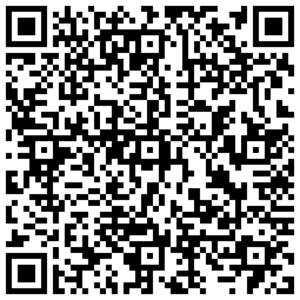
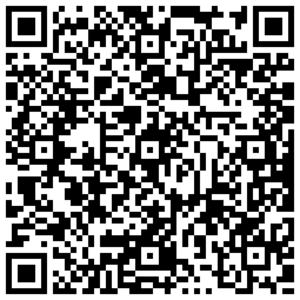
Update free configs - 2025-03-29

diff --git a/README.md b/README.md
@@ -1,6 +1,6 @@
 # 文档下方有很多可直接导入使用的高速节点/二维码订阅
 
-<p align='center'><strong>2025-03-28 12点准时更新每日免费节点，更多机场VPN优惠信息：<a href="https://vpn.tg10000.com">vpn.tg10000.com</a></strong></p>
+<p align='center'><strong>2025-03-29 12点准时更新每日免费节点，更多机场VPN优惠信息：<a href="https://vpn.tg10000.com">vpn.tg10000.com</a></strong></p>
 <p align='center'><strong>Telegram群:<a href="https://t.me/freevpn">@freevpntg</a></strong></p>
 
 
@@ -60,120 +60,120 @@
 
 <p align='center'><img src='img/1.png' alt='QR Code' width='300'></p>
 
-<p align='center'><code>ss://Y2hhY2hhMjAtaWV0Zi1wb2x5MTMwNTozMGQ0NWRkNi03NmQ1LTQ0YjQtOTM1ZS1iNjM3YmFlZDU3M2M=@free.2apzhfa.xyz:31141#0%7C%F0%9F%87%AD%F0%9F%87%B0%E9%A6%99%E6%B8%AF%2001%20%7C%201x%20HK</code></p>
+<p align='center'><code>ss://Y2hhY2hhMjAtaWV0Zi1wb2x5MTMwNTpiMDE1NmJmNy1jYWEyLTQ3NzgtYjQxNi05ZmM4MmZiODUzMDk=@free.2weradf.xyz:36141#0%7C%F0%9F%87%AD%F0%9F%87%B0%20%E9%A6%99%E6%B8%AF%2001%20%7C%201x%20HK</code></p>
 
 <p align='center'><img src='img/2.png' alt='QR Code' width='300'></p>
 
-<p align='center'><code>ss://Y2hhY2hhMjAtaWV0Zi1wb2x5MTMwNTozMGQ0NWRkNi03NmQ1LTQ0YjQtOTM1ZS1iNjM3YmFlZDU3M2M=@free.2apzhfa.xyz:31143#0%7C%F0%9F%87%AD%F0%9F%87%B0%E9%A6%99%E6%B8%AF%2002%20%7C%201x%20HK</code></p>
+<p align='center'><code>ss://Y2hhY2hhMjAtaWV0Zi1wb2x5MTMwNTpiMDE1NmJmNy1jYWEyLTQ3NzgtYjQxNi05ZmM4MmZiODUzMDk=@free.2weradf.xyz:36143#0%7C%F0%9F%87%AD%F0%9F%87%B0%20%E9%A6%99%E6%B8%AF%2002%20%7C%201x%20HK</code></p>
 
 <p align='center'><img src='img/3.png' alt='QR Code' width='300'></p>
 
-<p align='center'><code>ss://Y2hhY2hhMjAtaWV0Zi1wb2x5MTMwNTozMGQ0NWRkNi03NmQ1LTQ0YjQtOTM1ZS1iNjM3YmFlZDU3M2M=@free.2apzhfa.xyz:31145#0%7C%F0%9F%87%AD%F0%9F%87%B0%E9%A6%99%E6%B8%AF%E5%AE%B6%E5%AE%BD%2003%20%7C%201x%20HK</code></p>
+<p align='center'><code>ss://Y2hhY2hhMjAtaWV0Zi1wb2x5MTMwNTpiMDE1NmJmNy1jYWEyLTQ3NzgtYjQxNi05ZmM4MmZiODUzMDk=@free.2weradf.xyz:36145#0%7C%F0%9F%87%AD%F0%9F%87%B0%20%E9%A6%99%E6%B8%AF%E4%BD%8F%E5%AE%85IP%2003%20%7C%201x%20HK</code></p>
 
 <p align='center'><img src='img/4.png' alt='QR Code' width='300'></p>
 
-<p align='center'><code>ss://Y2hhY2hhMjAtaWV0Zi1wb2x5MTMwNTozMGQ0NWRkNi03NmQ1LTQ0YjQtOTM1ZS1iNjM3YmFlZDU3M2M=@free.2apzhfa.xyz:31241#0%7C%F0%9F%87%B9%F0%9F%87%BC%E5%8F%B0%E6%B9%BE%2001%20%7C%201x%20TW</code></p>
+<p align='center'><code>ss://Y2hhY2hhMjAtaWV0Zi1wb2x5MTMwNTpiMDE1NmJmNy1jYWEyLTQ3NzgtYjQxNi05ZmM4MmZiODUzMDk=@free.2weradf.xyz:36241#0%7C%F0%9F%87%B9%F0%9F%87%BC%20%E5%8F%B0%E6%B9%BE%2001%20%7C%201x%20TW</code></p>
 
 <p align='center'><img src='img/5.png' alt='QR Code' width='300'></p>
 
-<p align='center'><code>ss://Y2hhY2hhMjAtaWV0Zi1wb2x5MTMwNTozMGQ0NWRkNi03NmQ1LTQ0YjQtOTM1ZS1iNjM3YmFlZDU3M2M=@free.2apzhfa.xyz:31243#0%7C%F0%9F%87%B9%F0%9F%87%BC%E5%8F%B0%E6%B9%BE%2002%20%7C%201x%20TW</code></p>
+<p align='center'><code>ss://Y2hhY2hhMjAtaWV0Zi1wb2x5MTMwNTpiMDE1NmJmNy1jYWEyLTQ3NzgtYjQxNi05ZmM4MmZiODUzMDk=@free.2weradf.xyz:36243#0%7C%F0%9F%87%B9%F0%9F%87%BC%20%E5%8F%B0%E6%B9%BE%2002%20%7C%201x%20TW</code></p>
 
 <p align='center'><img src='img/6.png' alt='QR Code' width='300'></p>
 
-<p align='center'><code>ss://Y2hhY2hhMjAtaWV0Zi1wb2x5MTMwNTozMGQ0NWRkNi03NmQ1LTQ0YjQtOTM1ZS1iNjM3YmFlZDU3M2M=@free.2apzhfa.xyz:31245#0%7C%F0%9F%87%B9%F0%9F%87%BC%E5%8F%B0%E6%B9%BE%2003%20%7C%201x%20TW</code></p>
+<p align='center'><code>ss://Y2hhY2hhMjAtaWV0Zi1wb2x5MTMwNTpiMDE1NmJmNy1jYWEyLTQ3NzgtYjQxNi05ZmM4MmZiODUzMDk=@free.2weradf.xyz:36245#0%7C%F0%9F%87%B9%F0%9F%87%BC%20%E5%8F%B0%E6%B9%BE%2003%20%7C%201x%20TW</code></p>
 
 <p align='center'><img src='img/7.png' alt='QR Code' width='300'></p>
 
-<p align='center'><code>ss://Y2hhY2hhMjAtaWV0Zi1wb2x5MTMwNTozMGQ0NWRkNi03NmQ1LTQ0YjQtOTM1ZS1iNjM3YmFlZDU3M2M=@free.2apzhfa.xyz:31111#0%7C%F0%9F%87%AF%F0%9F%87%B5%E6%97%A5%E6%9C%AC%2001%20%7C%201x%20JP</code></p>
+<p align='center'><code>ss://Y2hhY2hhMjAtaWV0Zi1wb2x5MTMwNTpiMDE1NmJmNy1jYWEyLTQ3NzgtYjQxNi05ZmM4MmZiODUzMDk=@free.2weradf.xyz:36111#0%7C%F0%9F%87%AF%F0%9F%87%B5%20%E6%97%A5%E6%9C%AC%2001%20%7C%201x%20JP</code></p>
 
 <p align='center'><img src='img/8.png' alt='QR Code' width='300'></p>
 
-<p align='center'><code>ss://Y2hhY2hhMjAtaWV0Zi1wb2x5MTMwNTozMGQ0NWRkNi03NmQ1LTQ0YjQtOTM1ZS1iNjM3YmFlZDU3M2M=@free.2apzhfa.xyz:31113#0%7C%F0%9F%87%AF%F0%9F%87%B5%E6%97%A5%E6%9C%AC%2002%20%7C%201x%20JP</code></p>
+<p align='center'><code>ss://Y2hhY2hhMjAtaWV0Zi1wb2x5MTMwNTpiMDE1NmJmNy1jYWEyLTQ3NzgtYjQxNi05ZmM4MmZiODUzMDk=@free.2weradf.xyz:36113#0%7C%F0%9F%87%AF%F0%9F%87%B5%20%E6%97%A5%E6%9C%AC%2002%20%7C%201x%20JP</code></p>
 
 <p align='center'><img src='img/9.png' alt='QR Code' width='300'></p>
 
-<p align='center'><code>ss://Y2hhY2hhMjAtaWV0Zi1wb2x5MTMwNTozMGQ0NWRkNi03NmQ1LTQ0YjQtOTM1ZS1iNjM3YmFlZDU3M2M=@free.2apzhfa.xyz:31115#0%7C%F0%9F%87%AF%F0%9F%87%B5%E6%97%A5%E6%9C%AC%2003%20%7C%201x%20JP</code></p>
+<p align='center'><code>ss://Y2hhY2hhMjAtaWV0Zi1wb2x5MTMwNTpiMDE1NmJmNy1jYWEyLTQ3NzgtYjQxNi05ZmM4MmZiODUzMDk=@free.2weradf.xyz:36115#0%7C%F0%9F%87%AF%F0%9F%87%B5%20%E6%97%A5%E6%9C%AC%2003%20%7C%201x%20JP</code></p>
 
 <p align='center'><img src='img/10.png' alt='QR Code' width='300'></p>
 
-<p align='center'><code>ss://Y2hhY2hhMjAtaWV0Zi1wb2x5MTMwNTozMGQ0NWRkNi03NmQ1LTQ0YjQtOTM1ZS1iNjM3YmFlZDU3M2M=@free.2apzhfa.xyz:31171#0%7C%F0%9F%87%B8%F0%9F%87%AC%E6%96%B0%E5%8A%A0%E5%9D%A1%2001%20%7C%201x%20SG</code></p>
+<p align='center'><code>ss://Y2hhY2hhMjAtaWV0Zi1wb2x5MTMwNTpiMDE1NmJmNy1jYWEyLTQ3NzgtYjQxNi05ZmM4MmZiODUzMDk=@free.2weradf.xyz:36171#0%7C%F0%9F%87%B8%F0%9F%87%AC%20%E6%96%B0%E5%8A%A0%E5%9D%A1%2001%20%7C%201x%20SG</code></p>
 
 <p align='center'><img src='img/11.png' alt='QR Code' width='300'></p>
 
-<p align='center'><code>ss://Y2hhY2hhMjAtaWV0Zi1wb2x5MTMwNTozMGQ0NWRkNi03NmQ1LTQ0YjQtOTM1ZS1iNjM3YmFlZDU3M2M=@free.2apzhfa.xyz:31173#0%7C%F0%9F%87%B8%F0%9F%87%AC%E6%96%B0%E5%8A%A0%E5%9D%A1%2002%20%7C%201x%20SG</code></p>
+<p align='center'><code>ss://Y2hhY2hhMjAtaWV0Zi1wb2x5MTMwNTpiMDE1NmJmNy1jYWEyLTQ3NzgtYjQxNi05ZmM4MmZiODUzMDk=@free.2weradf.xyz:36173#0%7C%F0%9F%87%B8%F0%9F%87%AC%20%E6%96%B0%E5%8A%A0%E5%9D%A1%2002%20%7C%201x%20SG</code></p>
 
 <p align='center'><img src='img/12.png' alt='QR Code' width='300'></p>
 
-<p align='center'><code>ss://Y2hhY2hhMjAtaWV0Zi1wb2x5MTMwNTozMGQ0NWRkNi03NmQ1LTQ0YjQtOTM1ZS1iNjM3YmFlZDU3M2M=@free.2apzhfa.xyz:31175#0%7C%F0%9F%87%B8%F0%9F%87%AC%E6%96%B0%E5%8A%A0%E5%9D%A1%2003%20%7C%201x%20SG</code></p>
+<p align='center'><code>ss://Y2hhY2hhMjAtaWV0Zi1wb2x5MTMwNTpiMDE1NmJmNy1jYWEyLTQ3NzgtYjQxNi05ZmM4MmZiODUzMDk=@free.2weradf.xyz:36175#0%7C%F0%9F%87%B8%F0%9F%87%AC%20%E6%96%B0%E5%8A%A0%E5%9D%A1%2003%20%7C%201x%20SG</code></p>
 
 <p align='center'><img src='img/13.png' alt='QR Code' width='300'></p>
 
-<p align='center'><code>ss://Y2hhY2hhMjAtaWV0Zi1wb2x5MTMwNTozMGQ0NWRkNi03NmQ1LTQ0YjQtOTM1ZS1iNjM3YmFlZDU3M2M=@free.2apzhfa.xyz:31311#0%7C%F0%9F%87%B0%F0%9F%87%B7%E9%9F%A9%E5%9B%BD%2001%20%7C%201x%20KR</code></p>
+<p align='center'><code>ss://Y2hhY2hhMjAtaWV0Zi1wb2x5MTMwNTpiMDE1NmJmNy1jYWEyLTQ3NzgtYjQxNi05ZmM4MmZiODUzMDk=@free.2weradf.xyz:36311#0%7C%F0%9F%87%B0%F0%9F%87%B7%20%E9%9F%A9%E5%9B%BD%2001%20%7C%201x%20KR</code></p>
 
 <p align='center'><img src='img/14.png' alt='QR Code' width='300'></p>
 
-<p align='center'><code>ss://Y2hhY2hhMjAtaWV0Zi1wb2x5MTMwNTozMGQ0NWRkNi03NmQ1LTQ0YjQtOTM1ZS1iNjM3YmFlZDU3M2M=@free.2apzhfa.xyz:31313#0%7C%F0%9F%87%B0%F0%9F%87%B7%E9%9F%A9%E5%9B%BD%2002%20%7C%201x%20KR</code></p>
+<p align='center'><code>ss://Y2hhY2hhMjAtaWV0Zi1wb2x5MTMwNTpiMDE1NmJmNy1jYWEyLTQ3NzgtYjQxNi05ZmM4MmZiODUzMDk=@free.2weradf.xyz:36313#0%7C%F0%9F%87%B0%F0%9F%87%B7%20%E9%9F%A9%E5%9B%BD%2002%20%7C%201x%20KR</code></p>
 
 <p align='center'><img src='img/15.png' alt='QR Code' width='300'></p>
 
-<p align='center'><code>ss://Y2hhY2hhMjAtaWV0Zi1wb2x5MTMwNTozMGQ0NWRkNi03NmQ1LTQ0YjQtOTM1ZS1iNjM3YmFlZDU3M2M=@free.2apzhfa.xyz:31341#0%7C%F0%9F%87%B5%F0%9F%87%AD%E8%8F%B2%E5%BE%8B%E5%AE%BE%2001%20%7C%201x%20PH</code></p>
+<p align='center'><code>ss://Y2hhY2hhMjAtaWV0Zi1wb2x5MTMwNTpiMDE1NmJmNy1jYWEyLTQ3NzgtYjQxNi05ZmM4MmZiODUzMDk=@free.2weradf.xyz:36341#0%7C%F0%9F%87%B5%F0%9F%87%AD%20%E8%8F%B2%E5%BE%8B%E5%AE%BE%2001%20%7C%201x%20PH</code></p>
 
 <p align='center'><img src='img/16.png' alt='QR Code' width='300'></p>
 
-<p align='center'><code>ss://Y2hhY2hhMjAtaWV0Zi1wb2x5MTMwNTozMGQ0NWRkNi03NmQ1LTQ0YjQtOTM1ZS1iNjM3YmFlZDU3M2M=@free.2apzhfa.xyz:31211#0%7C%F0%9F%87%BA%F0%9F%87%B8%E7%BE%8E%E5%9B%BD%2001%20%7C%201x%20US%20Los%20Angeles</code></p>
+<p align='center'><code>ss://Y2hhY2hhMjAtaWV0Zi1wb2x5MTMwNTpiMDE1NmJmNy1jYWEyLTQ3NzgtYjQxNi05ZmM4MmZiODUzMDk=@free.2weradf.xyz:36211#0%7C%F0%9F%87%BA%F0%9F%87%B8%20%E7%BE%8E%E5%9B%BD%2001%20%7C%201x%20US%20Los%20Angeles</code></p>
 
 <p align='center'><img src='img/17.png' alt='QR Code' width='300'></p>
 
-<p align='center'><code>ss://Y2hhY2hhMjAtaWV0Zi1wb2x5MTMwNTozMGQ0NWRkNi03NmQ1LTQ0YjQtOTM1ZS1iNjM3YmFlZDU3M2M=@free.2apzhfa.xyz:31213#0%7C%F0%9F%87%BA%F0%9F%87%B8%E7%BE%8E%E5%9B%BD%E5%AE%B6%E5%AE%BD%2002%20%7C%201x%20US%20Los%20Angeles</code></p>
+<p align='center'><code>ss://Y2hhY2hhMjAtaWV0Zi1wb2x5MTMwNTpiMDE1NmJmNy1jYWEyLTQ3NzgtYjQxNi05ZmM4MmZiODUzMDk=@free.2weradf.xyz:36213#0%7C%F0%9F%87%BA%F0%9F%87%B8%20%E7%BE%8E%E5%9B%BD%E4%BD%8F%E5%AE%85IP%2002%20%7C%201x%20US%20Los%20Angel...</code></p>
 
 <p align='center'><img src='img/18.png' alt='QR Code' width='300'></p>
 
-<p align='center'><code>ss://Y2hhY2hhMjAtaWV0Zi1wb2x5MTMwNTozMGQ0NWRkNi03NmQ1LTQ0YjQtOTM1ZS1iNjM3YmFlZDU3M2M=@free.2apzhfa.xyz:31215#0%7C%F0%9F%87%BA%F0%9F%87%B8%E7%BE%8E%E5%9B%BD%2003%20%7C%201x%20US%20Washington</code></p>
+<p align='center'><code>ss://Y2hhY2hhMjAtaWV0Zi1wb2x5MTMwNTpiMDE1NmJmNy1jYWEyLTQ3NzgtYjQxNi05ZmM4MmZiODUzMDk=@free.2weradf.xyz:36215#0%7C%F0%9F%87%BA%F0%9F%87%B8%20%E7%BE%8E%E5%9B%BD%2003%20%7C%201x%20US%20Washington</code></p>
 
 <p align='center'><img src='img/19.png' alt='QR Code' width='300'></p>
 
-<p align='center'><code>ss://Y2hhY2hhMjAtaWV0Zi1wb2x5MTMwNTozMGQ0NWRkNi03NmQ1LTQ0YjQtOTM1ZS1iNjM3YmFlZDU3M2M=@free.2apzhfa.xyz:31271#0%7C%F0%9F%87%AC%F0%9F%87%A7%E8%8B%B1%E5%9B%BD%E5%AE%B6%E5%AE%BD%2001%20%7C%201x%20UK</code></p>
+<p align='center'><code>ss://Y2hhY2hhMjAtaWV0Zi1wb2x5MTMwNTpiMDE1NmJmNy1jYWEyLTQ3NzgtYjQxNi05ZmM4MmZiODUzMDk=@free.2weradf.xyz:36271#0%7C%F0%9F%87%AC%F0%9F%87%A7%20%E8%8B%B1%E5%9B%BD%E4%BD%8F%E5%AE%85IP%2001%20%7C%201x%20UK</code></p>
 
 <p align='center'><img src='img/20.png' alt='QR Code' width='300'></p>
 
-<p align='center'><code>ss://Y2hhY2hhMjAtaWV0Zi1wb2x5MTMwNTozMGQ0NWRkNi03NmQ1LTQ0YjQtOTM1ZS1iNjM3YmFlZDU3M2M=@free.2apzhfa.xyz:31741#0%7C%F0%9F%87%B9%F0%9F%87%AD%E6%B3%B0%E5%9B%BD01%20%20%7C%201x%20TH</code></p>
+<p align='center'><code>ss://Y2hhY2hhMjAtaWV0Zi1wb2x5MTMwNTpiMDE1NmJmNy1jYWEyLTQ3NzgtYjQxNi05ZmM4MmZiODUzMDk=@free.2weradf.xyz:36721#0%7C%F0%9F%87%B2%F0%9F%87%BE%E9%A9%AC%E6%9D%A5%E8%A5%BF%E4%BA%9A%2001%20%7C%201x%20MY</code></p>
 
 <p align='center'><img src='img/21.png' alt='QR Code' width='300'></p>
 
-<p align='center'><code>ss://Y2hhY2hhMjAtaWV0Zi1wb2x5MTMwNTozMGQ0NWRkNi03NmQ1LTQ0YjQtOTM1ZS1iNjM3YmFlZDU3M2M=@free.2apzhfa.xyz:31721#0%7C%F0%9F%87%B2%F0%9F%87%BE%E9%A9%AC%E6%9D%A5%E8%A5%BF%E4%BA%9A01%20%7C%201x%20MY</code></p>
+<p align='center'><code>ss://Y2hhY2hhMjAtaWV0Zi1wb2x5MTMwNTpiMDE1NmJmNy1jYWEyLTQ3NzgtYjQxNi05ZmM4MmZiODUzMDk=@free.2weradf.xyz:36741#0%7C%F0%9F%87%AE%F0%9F%87%B3%E8%A5%BF%E7%8F%AD%E7%89%99%2001%20%7C%201x%20ES</code></p>
 
 <p align='center'><img src='img/22.png' alt='QR Code' width='300'></p>
 
-<p align='center'><code>ss://Y2hhY2hhMjAtaWV0Zi1wb2x5MTMwNTozMGQ0NWRkNi03NmQ1LTQ0YjQtOTM1ZS1iNjM3YmFlZDU3M2M=@free.2apzhfa.xyz:31371#0%7C%F0%9F%87%AE%F0%9F%87%B3%E5%8D%B0%E5%BA%A6%2001%20%7C%201x%20IN</code></p>
+<p align='center'><code>ss://Y2hhY2hhMjAtaWV0Zi1wb2x5MTMwNTpiMDE1NmJmNy1jYWEyLTQ3NzgtYjQxNi05ZmM4MmZiODUzMDk=@free.2weradf.xyz:36731#0%7C%F0%9F%87%B9%F0%9F%87%AD%E6%B3%B0%E5%9B%BD%2001%20%7C%201x%20TH</code></p>
 
 <p align='center'><img src='img/23.png' alt='QR Code' width='300'></p>
 
-<p align='center'><code>ss://Y2hhY2hhMjAtaWV0Zi1wb2x5MTMwNTozMGQ0NWRkNi03NmQ1LTQ0YjQtOTM1ZS1iNjM3YmFlZDU3M2M=@free.2apzhfa.xyz:31411#0%7C%F0%9F%87%A6%F0%9F%87%BA%E6%BE%B3%E5%A4%A7%E5%88%A9%E4%BA%9A%2001%20%7C%201x%20AU</code></p>
+<p align='center'><code>ss://Y2hhY2hhMjAtaWV0Zi1wb2x5MTMwNTpiMDE1NmJmNy1jYWEyLTQ3NzgtYjQxNi05ZmM4MmZiODUzMDk=@free.2weradf.xyz:36371#0%7C%F0%9F%87%AE%F0%9F%87%B3%20%E5%8D%B0%E5%BA%A6%2001%20%7C%201x%20IN</code></p>
 
 <p align='center'><img src='img/24.png' alt='QR Code' width='300'></p>
 
-<p align='center'><code>ss://Y2hhY2hhMjAtaWV0Zi1wb2x5MTMwNTozMGQ0NWRkNi03NmQ1LTQ0YjQtOTM1ZS1iNjM3YmFlZDU3M2M=@free.2apzhfa.xyz:31441#0%7C%F0%9F%87%A8%F0%9F%87%A6%E5%8A%A0%E6%8B%BF%E5%A4%A7%2001%20%7C%201x%20CA</code></p>
+<p align='center'><code>ss://Y2hhY2hhMjAtaWV0Zi1wb2x5MTMwNTpiMDE1NmJmNy1jYWEyLTQ3NzgtYjQxNi05ZmM4MmZiODUzMDk=@free.2weradf.xyz:36411#0%7C%F0%9F%87%A6%F0%9F%87%BA%20%E6%BE%B3%E5%A4%A7%E5%88%A9%E4%BA%9A%2001%20%7C%201x%20AU</code></p>
 
 <p align='center'><img src='img/25.png' alt='QR Code' width='300'></p>
 
-<p align='center'><code>ss://Y2hhY2hhMjAtaWV0Zi1wb2x5MTMwNTozMGQ0NWRkNi03NmQ1LTQ0YjQtOTM1ZS1iNjM3YmFlZDU3M2M=@free.2apzhfa.xyz:31471#0%7C%F0%9F%87%A9%F0%9F%87%AA%E5%BE%B7%E5%9B%BD%2001%20%7C%201x%20DE</code></p>
+<p align='center'><code>ss://Y2hhY2hhMjAtaWV0Zi1wb2x5MTMwNTpiMDE1NmJmNy1jYWEyLTQ3NzgtYjQxNi05ZmM4MmZiODUzMDk=@free.2weradf.xyz:36441#0%7C%F0%9F%87%A8%F0%9F%87%A6%20%E5%8A%A0%E6%8B%BF%E5%A4%A7%2001%20%7C%201x%20CA</code></p>
 
 <p align='center'><img src='img/26.png' alt='QR Code' width='300'></p>
 
-<p align='center'><code>ss://Y2hhY2hhMjAtaWV0Zi1wb2x5MTMwNTozMGQ0NWRkNi03NmQ1LTQ0YjQtOTM1ZS1iNjM3YmFlZDU3M2M=@free.2apzhfa.xyz:31511#0%7C%F0%9F%87%B7%F0%9F%87%BA%E4%BF%84%E7%BD%97%E6%96%AF%2001%20%7C%201x%20RU</code></p>
+<p align='center'><code>ss://Y2hhY2hhMjAtaWV0Zi1wb2x5MTMwNTpiMDE1NmJmNy1jYWEyLTQ3NzgtYjQxNi05ZmM4MmZiODUzMDk=@free.2weradf.xyz:36471#0%7C%F0%9F%87%A9%F0%9F%87%AA%20%E5%BE%B7%E5%9B%BD%2001%20%7C%201x%20DE</code></p>
 
 <p align='center'><img src='img/27.png' alt='QR Code' width='300'></p>
 
-<p align='center'><code>ss://Y2hhY2hhMjAtaWV0Zi1wb2x5MTMwNTozMGQ0NWRkNi03NmQ1LTQ0YjQtOTM1ZS1iNjM3YmFlZDU3M2M=@free.2apzhfa.xyz:31571#0%7C%F0%9F%87%B9%F0%9F%87%B7%E5%9C%9F%E8%80%B3%E5%85%B6%2001%20%7C%201x%20TR</code></p>
+<p align='center'><code>ss://Y2hhY2hhMjAtaWV0Zi1wb2x5MTMwNTpiMDE1NmJmNy1jYWEyLTQ3NzgtYjQxNi05ZmM4MmZiODUzMDk=@free.2weradf.xyz:36511#0%7C%F0%9F%87%B7%F0%9F%87%BA%20%E4%BF%84%E7%BD%97%E6%96%AF%2001%20%7C%201x%20RU</code></p>
 
 <p align='center'><img src='img/28.png' alt='QR Code' width='300'></p>
 
-<p align='center'><code>ss://Y2hhY2hhMjAtaWV0Zi1wb2x5MTMwNTozMGQ0NWRkNi03NmQ1LTQ0YjQtOTM1ZS1iNjM3YmFlZDU3M2M=@free.2apzhfa.xyz:31611#0%7C%F0%9F%87%BA%F0%9F%87%A6%E4%B9%8C%E5%85%8B%E5%85%B0%2001%20%7C%201x%20UA</code></p>
+<p align='center'><code>ss://Y2hhY2hhMjAtaWV0Zi1wb2x5MTMwNTpiMDE1NmJmNy1jYWEyLTQ3NzgtYjQxNi05ZmM4MmZiODUzMDk=@free.2weradf.xyz:36571#0%7C%F0%9F%87%B9%F0%9F%87%B7%20%E5%9C%9F%E8%80%B3%E5%85%B6%2001%20%7C%201x%20TR</code></p>
 
 <p align='center'><img src='img/29.png' alt='QR Code' width='300'></p>
 
-<p align='center'><code>ss://Y2hhY2hhMjAtaWV0Zi1wb2x5MTMwNTozMGQ0NWRkNi03NmQ1LTQ0YjQtOTM1ZS1iNjM3YmFlZDU3M2M=@free.2apzhfa.xyz:31641#0%7C%F0%9F%87%BB%F0%9F%87%B3%E8%B6%8A%E5%8D%97%2001%20%7C%201x%20VN</code></p>
+<p align='center'><code>ss://Y2hhY2hhMjAtaWV0Zi1wb2x5MTMwNTpiMDE1NmJmNy1jYWEyLTQ3NzgtYjQxNi05ZmM4MmZiODUzMDk=@free.2weradf.xyz:36611#0%7C%F0%9F%87%BA%F0%9F%87%A6%20%E4%B9%8C%E5%85%8B%E5%85%B0%2001%20%7C%201x%20UA</code></p>
 
 <p align='center'><img src='img/30.png' alt='QR Code' width='300'></p>
 
-<p align='center'><code>ss://Y2hhY2hhMjAtaWV0Zi1wb2x5MTMwNTozMGQ0NWRkNi03NmQ1LTQ0YjQtOTM1ZS1iNjM3YmFlZDU3M2M=@free.2apzhfa.xyz:31671#0%7C%F0%9F%87%A7%F0%9F%87%B7%E5%B7%B4%E8%A5%BF%2001%20%7C%201x%20BR</code></p>
+<p align='center'><code>ss://Y2hhY2hhMjAtaWV0Zi1wb2x5MTMwNTpiMDE1NmJmNy1jYWEyLTQ3NzgtYjQxNi05ZmM4MmZiODUzMDk=@free.2weradf.xyz:36641#0%7C%F0%9F%87%BB%F0%9F%87%B3%20%E8%B6%8A%E5%8D%97%2001%20%7C%201x%20VN</code></p>
